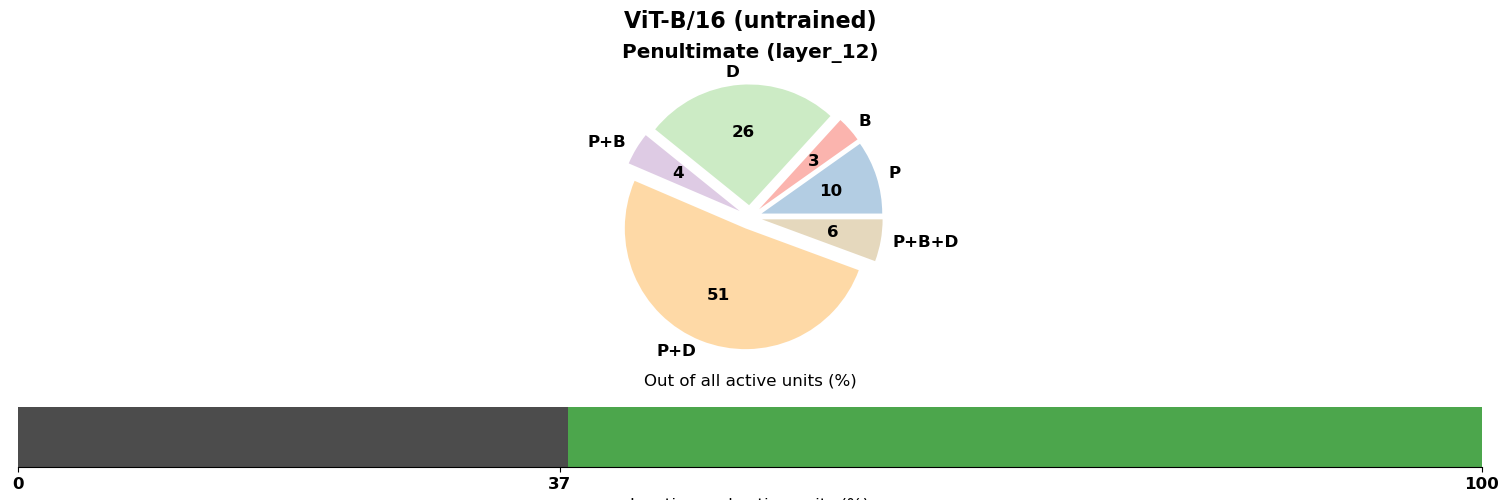
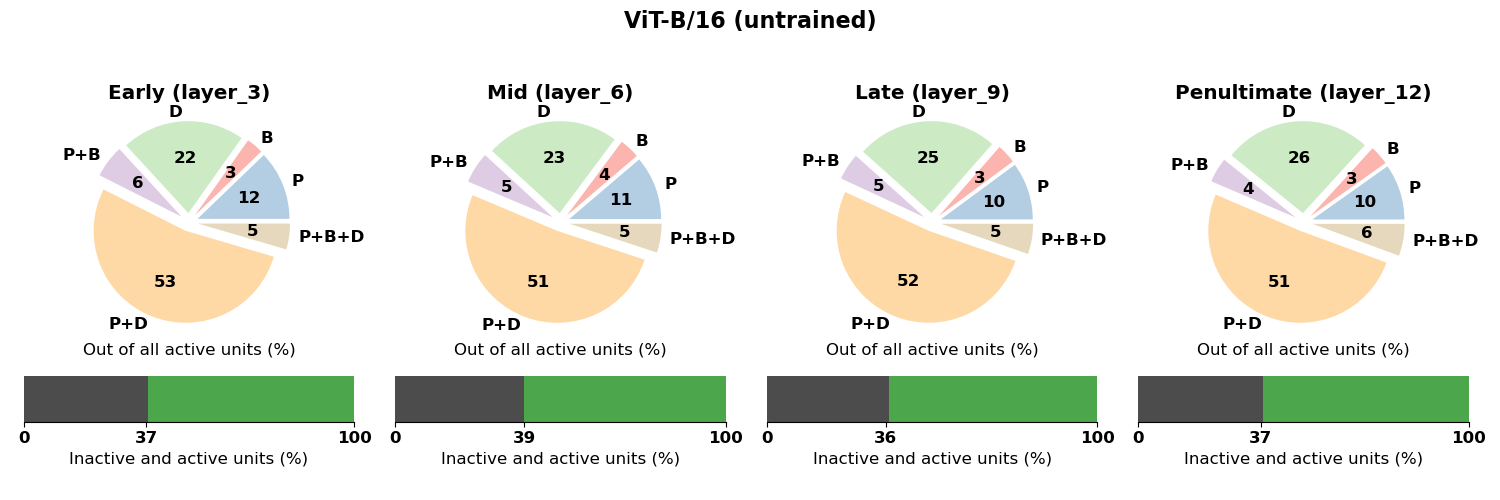
add figs: untrained model piecharts

diff --git a/inspect_model_units.py b/inspect_model_units.py
@@ -1830,11 +1830,11 @@ if __name__ == '__main__':
     movement_modes = ['2d']
     sampling_rates = [0.3]
     random_seeds = [42]
-    model_names = ['vit_b16', 'vit_b16_untrained']
+    model_names = ['resnet50_untrained']
     moving_trajectories = ['uniform']
     decoding_model_choices = [{'name': 'ridge_regression', 'hparams': 1.0}]
     feature_selections = ['l2']
-    sorted_by = 'borderness'
+    sorted_by = 'num_clusters'
     filterings = [
         # {'filtering_order': 'top_n', 'n_units_filtering': None, 'p_units_filtering': 0.1},
         # {'filtering_order': 'random_n', 'n_units_filtering': None, 'p_units_filtering': 0.1},
@@ -1863,8 +1863,8 @@ if __name__ == '__main__':
 
     # multi_envs_inspect_units_GPU(
     multi_envs_inspect_units_CPU(
-        # target_func=_single_env_produce_unit_chart,                       # set experiment='unit_chart'
-        target_func=_single_env_viz_units_ranked_by_unit_chart,           # set experiment='unit_chart'
+        target_func=_single_env_produce_unit_chart,                       # set experiment='unit_chart'
+        # target_func=_single_env_viz_units_ranked_by_unit_chart,           # set experiment='unit_chart'
         # target_func=_single_env_viz_unit_chart,                           # set experiment='unit_chart'
         # target_func=_single_env_viz_units_ranked_by_coef_n_save_coef_ranked_unit_charts,    # set experiment='unit_chart_by_coef'
         # target_func=_single_env_viz_units_by_type_ranked_by_coef,
@@ -1880,7 +1880,7 @@ if __name__ == '__main__':
         random_seeds=random_seeds,
         sorted_by=sorted_by,
         filterings=filterings,
-        # cuda_id_list=[0,1,2,3,4,5,6,7],
+        # cuda_id_list=[7],
     )
 
     # print time elapsed

diff --git a/figures_paper.py b/figures_paper.py
@@ -1657,7 +1657,7 @@ def unit_chart_visualization_piechart():
     envs = ['env28_r24']
     env = envs[0]
     # model_names = ['vgg16', 'resnet50', 'vit_b16']
-    model_names = ['vgg16_untrained', 'vit_b16_untrained']
+    model_names = ['vgg16_untrained', 'resnet50_untrained', 'vit_b16_untrained']
 
     for model_name in model_names:
         output_layers = data.load_model_layers(model_name)
@@ -1914,9 +1914,9 @@ def unit_chart_visualization_piechart():
 
 if __name__ == '__main__':
     TF_NUM_INTRAOP_THREADS = 10
-    decoding_each_model_across_layers_and_sr()
-    decoding_all_models_one_layer_one_sr()
-    lesion_by_coef_each_model_across_layers_and_lr()
-    lesion_by_unit_chart_each_model_across_layers_and_lr()
+    # decoding_each_model_across_layers_and_sr()
+    # decoding_all_models_one_layer_one_sr()
+    # lesion_by_coef_each_model_across_layers_and_lr()
+    # lesion_by_unit_chart_each_model_across_layers_and_lr()
     # unit_visualization_by_type()
-    # unit_chart_visualization_piechart()
+    unit_chart_visualization_piechart()
